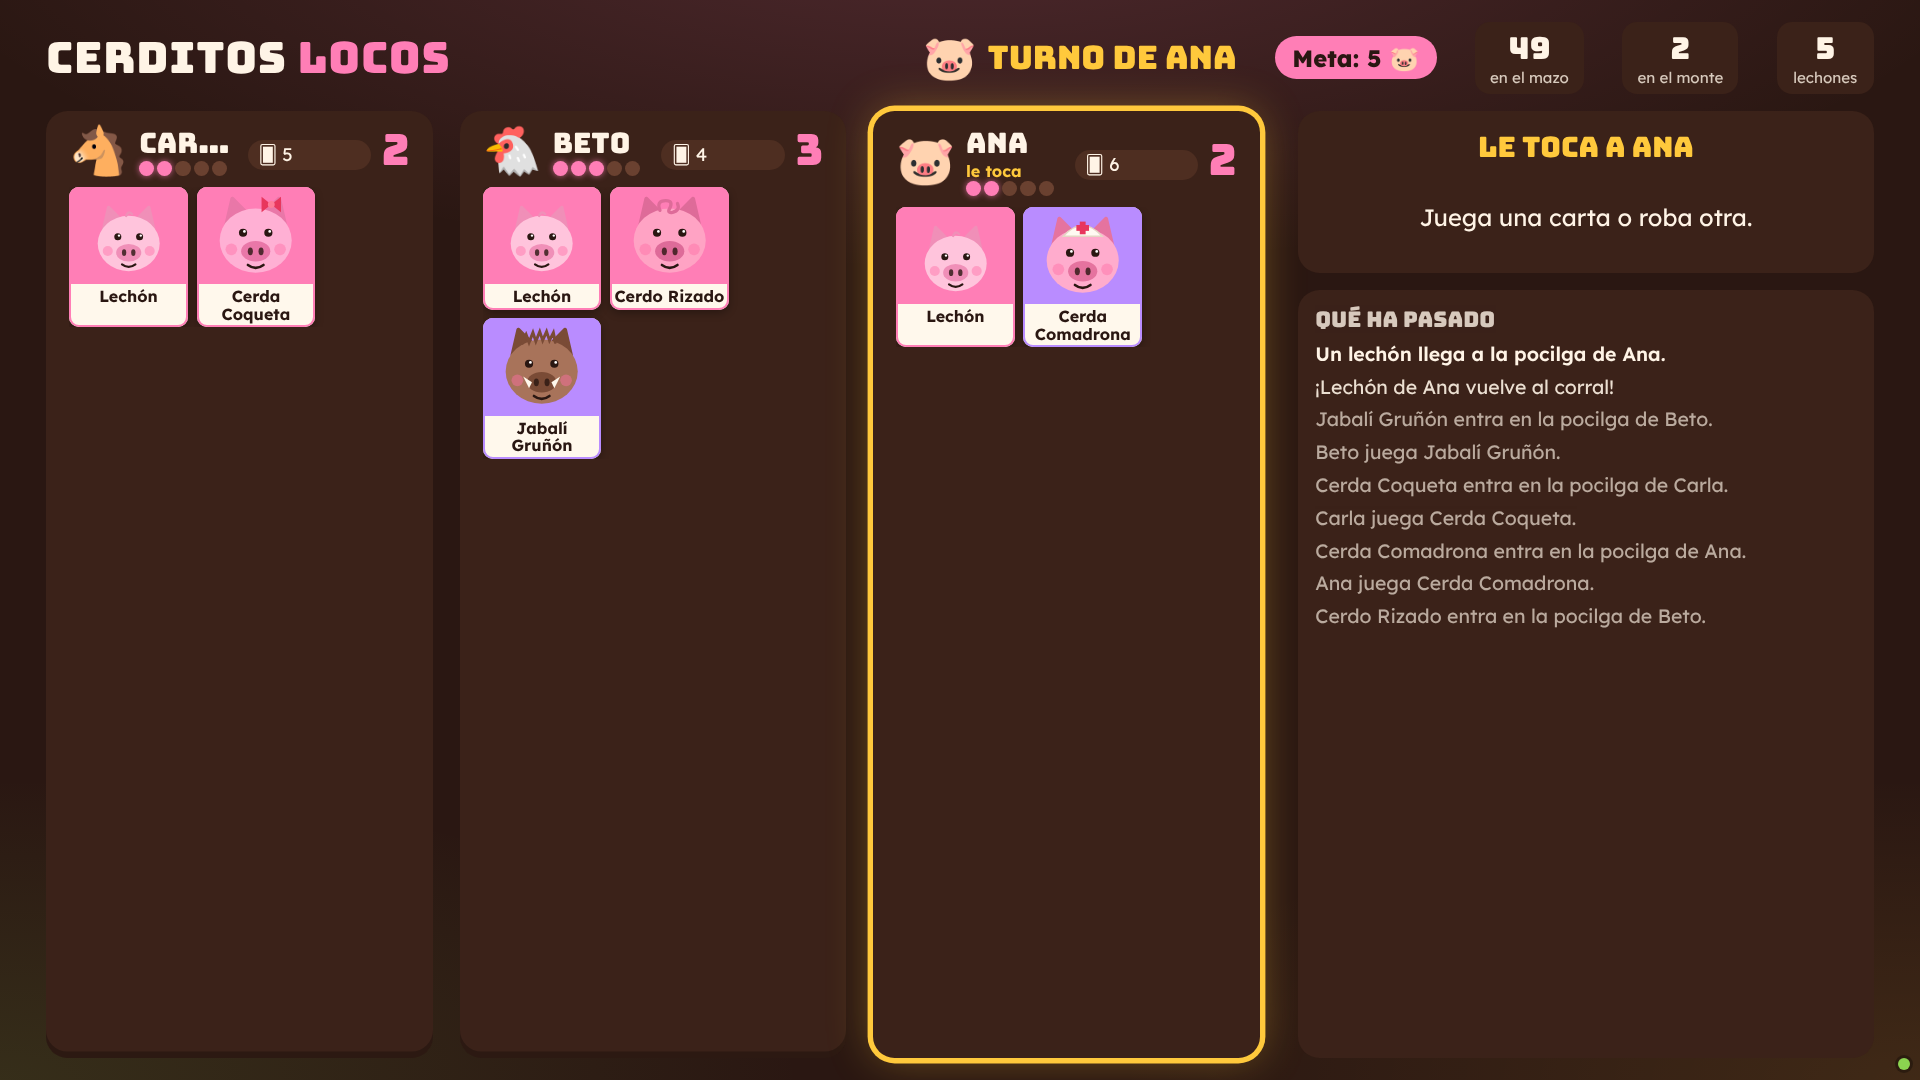
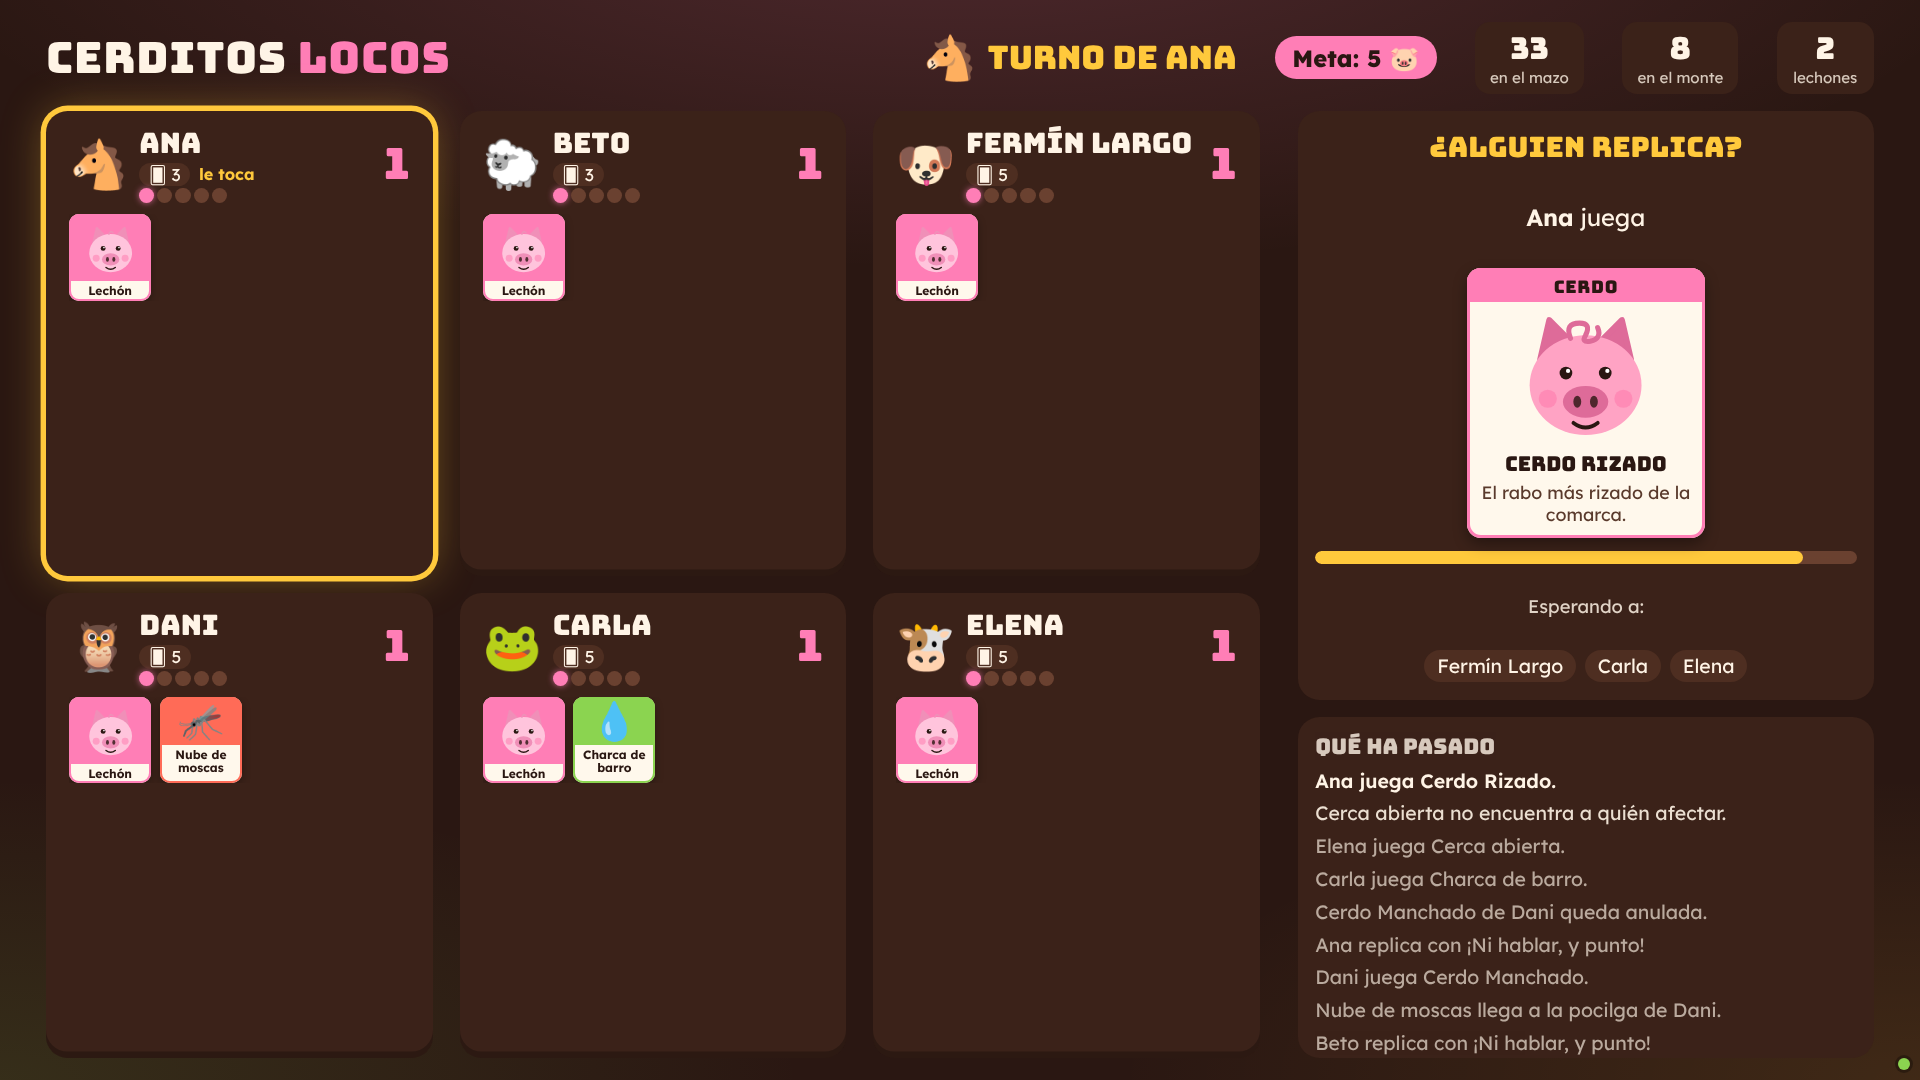
TV legible con 6 jugadores y puntuación del registro
Claude-Session: https://claude.ai/code/session_012npZoimiTdo8azkYmbjNj1

diff --git a/custom_components/cerditos_locos/frontend/app.css b/custom_components/cerditos_locos/frontend/app.css
@@ -143,12 +143,13 @@ body.tv { overflow: hidden; height: 100vh; font-size: 2vh; }
 .pen.off { opacity: 0.55; }
 .pen header { display: flex; align-items: center; gap: 1vh; }
 .pen header .ava { font-size: 4.4vh; line-height: 1; }
-.pen header .who { display: flex; flex-direction: column; min-width: 0; margin-right: auto; }
+.pen header .who { display: flex; flex-direction: column; align-items: flex-start; min-width: 0; margin-right: auto; }
 .pen header .nm { font-family: var(--display); font-size: 2.6vh; white-space: nowrap; overflow: hidden; text-overflow: ellipsis; }
 .pen header .tag { font-size: 1.5vh; font-weight: 700; color: var(--sun); }
 .pen header .tag.off { color: var(--tomato); }
 .pen header .count { font-family: var(--display); font-size: 4vh; color: var(--pink); line-height: 1; }
-.pen header .hand { font-size: 1.7vh; background: var(--mud-3); border-radius: 99px; padding: 0.3vh 1vh; white-space: nowrap; }
+.pen header .line { display: flex; align-items: center; gap: 0.8vh; margin: 0.2vh 0; }
+.pen header .handcount { font-size: 1.6vh; background: var(--mud-3); border-radius: 99px; padding: 0.1vh 0.9vh; white-space: nowrap; }
 .pen .meter { font-size: 2vh; }
 .pen .cards { display: flex; flex-wrap: wrap; gap: 0.8vh; align-content: flex-start; overflow: hidden; }
 .pen .card.mini { width: 11vh; font-size: 2.4vh; }

diff --git a/custom_components/cerditos_locos/frontend/tv.js b/custom_components/cerditos_locos/frontend/tv.js
@@ -157,8 +157,10 @@ function renderTable() {
     pens.append(el("article", { class: `pen${p.id === state.active ? " active" : ""}${p.connected ? "" : " off"}`, "data-id": p.id },
       el("header", {},
         el("span", { class: "ava", text: p.avatar }),
-        el("span", { class: "who" }, el("span", { class: "nm", text: p.name }), tag, pigMeter(p.pigs, state.goal)),
-        el("span", { class: "hand", title: "Cartas en la mano", text: `🂠 ${p.hand_count}` }),
+        el("span", { class: "who" },
+          el("span", { class: "nm", text: p.name }),
+          el("span", { class: "line" }, el("span", { class: "handcount", title: "Cartas en la mano", text: `🂠 ${p.hand_count}` }), tag),
+          pigMeter(p.pigs, state.goal)),
         el("span", { class: "count", text: String(p.pigs) })),
       cards));
   }

diff --git a/custom_components/cerditos_locos/game/engine.py b/custom_components/cerditos_locos/game/engine.py
@@ -193,6 +193,8 @@ class Game:
         return f"{prefix}{self._id_counter}"
 
     def say(self, text: str) -> None:
+        if text.endswith(("!.", "?.")):  # «… con ¡Ni hablar!.» → «… con ¡Ni hablar!»
+            text = text[:-1]
         self._log_seq += 1
         self.log.append({"n": self._log_seq, "text": text})
         del self.log[:-LOG_KEEP]
